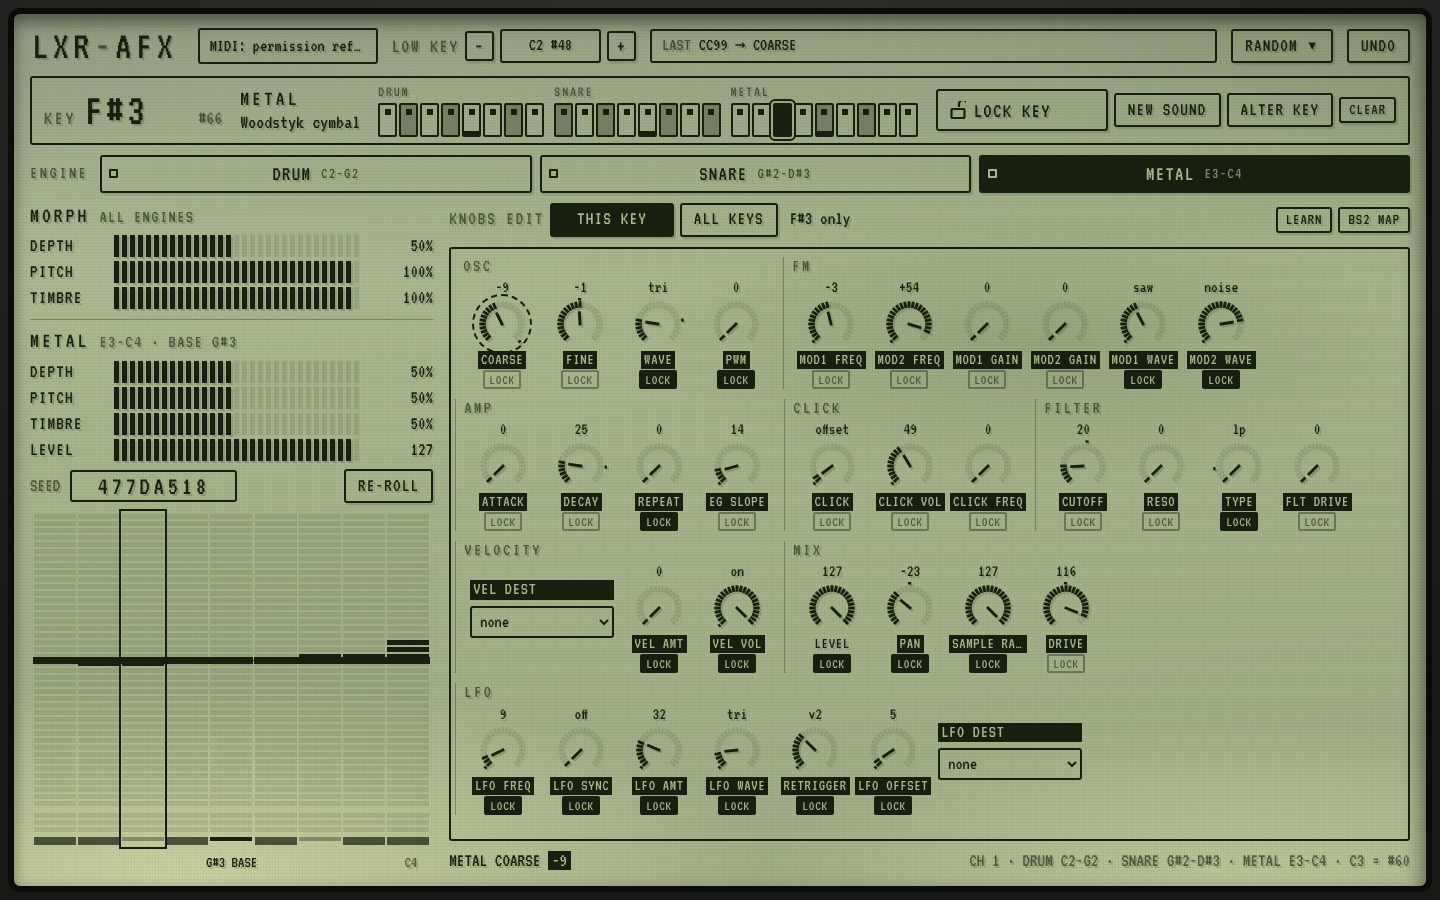
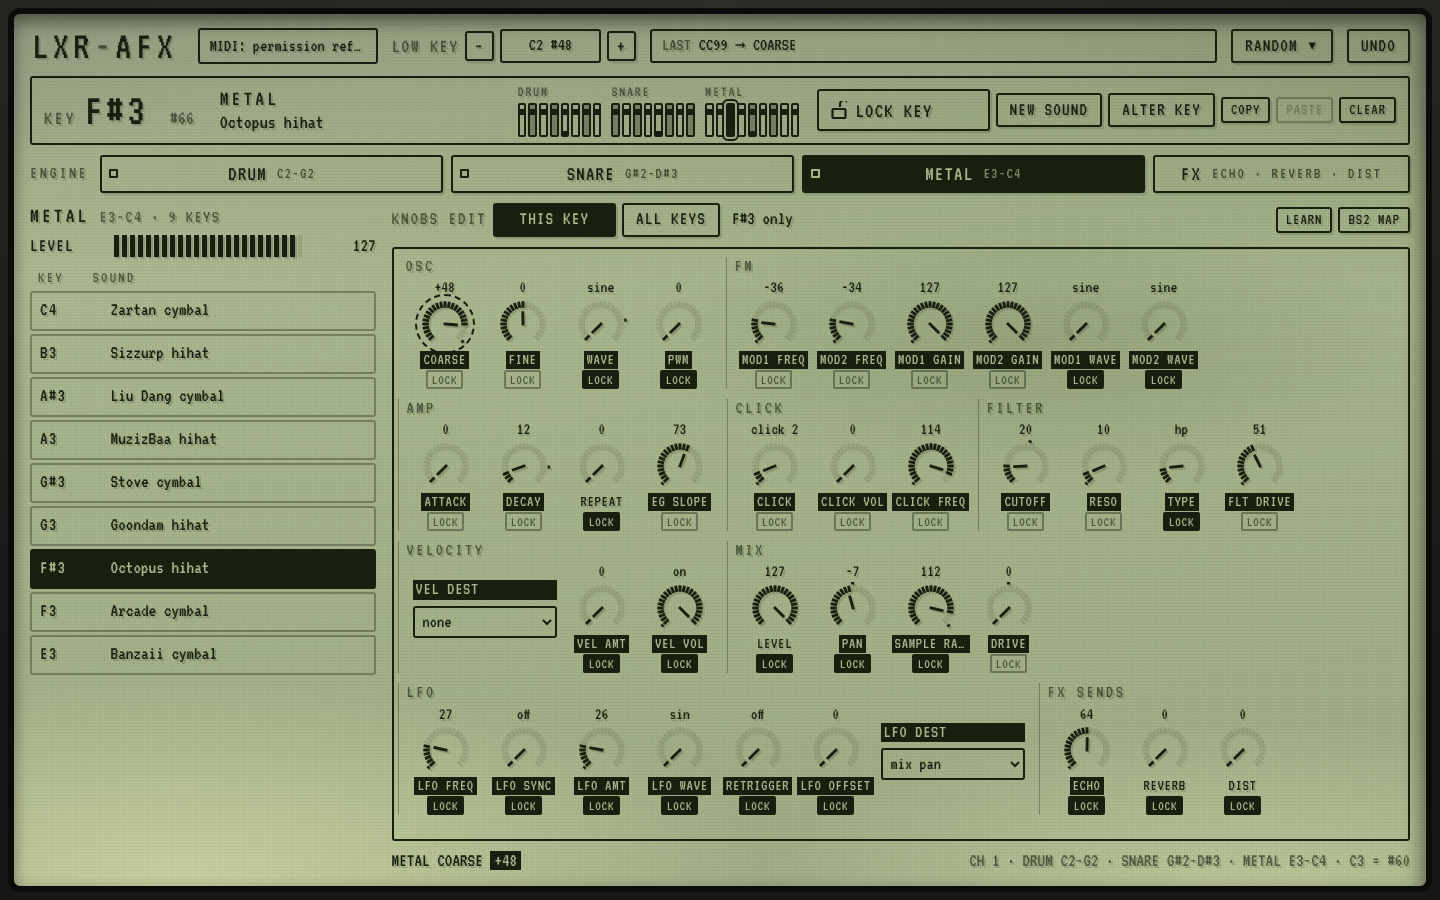
Drop the auto-morph: every key plays its own sound; side panel lists the zone's keys; BS2 knobs 18/5/19 drive the sends
Claude-Session: https://claude.ai/code/session_018ENZqU77miybkZNfffD9E3

diff --git a/app/main.js b/app/main.js
@@ -81,10 +81,9 @@ async function startAudio() {
 // made on one key never stays on for the next
 function keyPatch(sound, note) {
   const def = SOUNDS[sound], v = def.engineVoice, st = S.sounds[sound];
-  const amount = combinedAmount(pct(S.global), pct(st));
-  const m = morphKey({ schema: VOICE_SCHEMAS[v], base: S.values, note, seed: st.seed, amount, voice: v, zone: SOUNDS[sound].zone });
+  // no morph (dropped): a key with no sound of its own plays the engine's base sound
+  const m = { note: BASE_NOTE, semitones: 0, params: [] };
   const vals = new Map(voiceOwned(v).map((p) => [p, S.values[p]]));
-  for (const [p, x] of m.params) vals.set(p, x);
   const ed = S.keyEdits[sound][note];
   // a locked key plays the snapshot taken when it was locked, whole (only the sound's level still follows the mix)
   if (ed && ed._lock) {
@@ -127,7 +126,12 @@ function setValue(par, v, { quiet = false } = {}) {
 const editing = () => !S.editAll;
 function valueNow(par) { return editing() ? keyPatch(S.sel, editKey[S.sel]).vals.get(par) : S.values[par]; }
 function editValue(par, v) {
-  if (!editing()) { setValue(par, v); return; }
+  if (!editing()) { // ALL KEYS: the engine's base and every key of the zone that has its own sound (locked keys stay)
+    setValue(par, v);
+    const k = S.keyEdits[S.sel];
+    for (const n in k) if (!k[n]._lock) k[n][par] = v;
+    send({ type: 'param', par, value: v }); save(); drawKeymap(); return;
+  }
   const note = editKey[S.sel], k = S.keyEdits[S.sel];
   if (keyLocked(S.sel, note)) { lockedMsg(); drawFaders(); return; }
   (k[note] ||= {})[par] = v;
@@ -195,7 +199,7 @@ const CC_DEFAULT = {
   90: { t: 'par', label: ['attack'], name: 'amp attack' }, 91: { t: 'par', label: ['decay'], name: 'amp decay' },
   103: { t: 'par', label: ['pitch dec', 'mod1 freq'], name: 'mod env decay' }, 94: { t: 'par', label: ['fm amt', 'mod1 gain'], name: 'distortion' },
   27: { t: 'par', label: ['coarse'], name: 'osc 1 coarse' }, 26: { t: 'par', label: ['fine'], name: 'osc 1 fine' },
-  18: { t: 'global', k: 'depth', name: 'lfo 1 speed' }, 5: { t: 'global', k: 'pitch', name: 'portamento' }, 19: { t: 'global', k: 'timbre', name: 'lfo 2 speed' },
+  18: { t: 'par', label: ['echo'], name: 'lfo 1 speed' }, 5: { t: 'par', label: ['reverb'], name: 'portamento' }, 19: { t: 'par', label: ['dist'], name: 'lfo 2 speed' },
   20: { t: 'zlevel', s: 0, name: 'osc 1 level' }, 21: { t: 'zlevel', s: 1, name: 'osc 2 level' }, 22: { t: 'zlevel', s: 2, name: 'sub osc level' },
 };
 const ccMap = () => S.ccMap || CC_DEFAULT;
@@ -220,9 +224,8 @@ function onCC(cc, val) {
   const t = ccMap()[cc];
   if (!t) { showLastText(`CC${cc} ${val} · not mapped (LEARN maps it)`); return; }
   let text;
-  if (t.t === 'global') { S.global[t.k] = Math.round(val / 127 * 100); text = `${ccTargetName(t)} ${S.global[t.k]}%`; }
-  else if (t.t === 'sound') { S.sounds[S.sel][t.k] = Math.round(val / 127 * 100); text = `${SOUNDS[S.sel].name} ${ccTargetName(t)} ${S.sounds[S.sel][t.k]}%`; }
-  else if (t.t === 'randkey') { // a button: acts once as it goes past half way up
+  if (t.t === 'global' || t.t === 'sound') { showLastText(`CC${cc} · was the morph (gone): BS2 MAP or LEARN maps it`); return; }
+  if (t.t === 'randkey') { // a button: acts once as it goes past half way up
     const up = val >= 64, was = ccHeld[cc]; ccHeld[cc] = up;
     if (up && !was) randKey(); return;
   }
@@ -333,12 +336,6 @@ function hbar(box, label, o) {
 
 // ---- the morph bars ----
 const P = (v) => v + '%';
-const globalDraws = ['depth', 'pitch', 'timbre'].map((k) => hbar($('global-bars'), k.toUpperCase(), {
-  min: 0, max: 100, get: () => S.global[k], set: (v) => { S.global[k] = v; save(); drawKeymap(); }, show: P, dflt: 100, learn: { t: 'global', k } }));
-const soundDraws = ['depth', 'pitch', 'timbre'].map((k) => hbar($('sound-bars'), k.toUpperCase(), {
-  min: 0, max: 100, get: () => S.sounds[S.sel][k], set: (v) => { S.sounds[S.sel][k] = v; save(); drawKeymap(); }, show: P, dflt: 50, learn: { t: 'sound', k } }));
-$('reroll').addEventListener('click', () => reroll());
-function reroll() { S.sounds[S.sel].seed = newSeed(); lastMorph[S.sel] = null; save(); drawSide(); drawFaders(); detail(`${SOUNDS[S.sel].name}: new seed <em>${hex(S.sounds[S.sel].seed)}</em>`); }
 
 // ---- level and the randomiser's amount ----
 const levelPar = () => PAR['VOL' + (SOUNDS[S.sel].engineVoice + 1)];
@@ -350,58 +347,24 @@ $('wild').checked = S.rand.wild;
 $('wild').addEventListener('change', () => { S.rand.wild = $('wild').checked; save(); });
 
 // ---------------------------------------------------------------------------------------------------------------
-// the key map: each key's pitch offset (a bar up or down from the middle line) and timbre amount (the dots under it)
+// the zone's keys, one row each: its note, the sound it plays, and whether it's locked or edited. A click picks the key
+// and plays it (drawKeymap keeps its old name: everything that changes a key calls it)
 // ---------------------------------------------------------------------------------------------------------------
 function drawKeymap() {
-  const cv = $('keymap'), dpr = window.devicePixelRatio || 1;
-  const cw0 = cv.clientWidth, ch0 = cv.clientHeight;
-  if (!cw0 || !ch0) return;
-  if (cv.width !== Math.round(cw0 * dpr) || cv.height !== Math.round(ch0 * dpr)) { cv.width = Math.round(cw0 * dpr); cv.height = Math.round(ch0 * dpr); }
-  const g = cv.getContext('2d'); g.setTransform(dpr, 0, 0, dpr, 0, 0);
-  g.clearRect(0, 0, cw0, ch0); g.translate(3, 0); // room for the edit key's box at either end
-  const W = cw0 - 6, H = ch0, ink = '#17200e', ghost = 'rgba(23,32,14,.11)';
-  g.clearRect(0, 0, W, H);
-  const zone = SOUNDS[S.sel].zone, n = zone.hi - zone.lo + 1, cw = W / n;
-  // rows: pitch (up and down from the middle line), then timbre, then the keyboard strip
-  const SEG = 5, STEP = 7, keysH = 8, timbreH = 3 * STEP, top = 4;
-  const half = Math.floor((H - top - keysH - timbreH - 12) / 2 / STEP) * STEP, mid = top + half;
-  const st = S.sounds[S.sel], amount = combinedAmount(pct(S.global), pct(st)), last = lastMorph[S.sel];
-  const segsMax = half / STEP;
-  for (let k = 0; k < n; k++) {
-    const note = zone.lo + k, x = Math.round(k * cw) + 1, w = Math.max(2, Math.round(cw) - 2);
-    g.fillStyle = ghost;
-    for (let s = 0; s < segsMax; s++) { g.fillRect(x, mid - STEP - s * STEP + 1, w, SEG); g.fillRect(x, mid + 1 + s * STEP, w, SEG); }
-    // pitch: a segment per twelfth of the full 12 semitones' height, from the middle line
-    const lockEd = S.keyEdits[S.sel][note]?._lock ? S.keyEdits[S.sel][note] : null;
-    const semis = lockEd ? lockEd._st || 0 : pitchOffset(note, st.seed, amount.pitch, zone), segs = Math.round(Math.abs(semis) / 12 * segsMax);
-    g.fillStyle = ink;
-    for (let s = 0; s < segs; s++) g.fillRect(x, semis > 0 ? mid - STEP - s * STEP + 1 : mid + 1 + s * STEP, w, SEG);
-    // timbre: up to three segments
-    const ty = mid + half + 6, t = Math.round(amount.timbre * keyDistance(note, zone).dist * 3);
-    for (let s = 0; s < 3; s++) { g.fillStyle = s < t ? ink : ghost; g.fillRect(x, ty + (2 - s) * STEP, w, SEG); }
-    // the keyboard strip: white keys full, black keys short; C3 solid
-    const ky = ty + timbreH + 3, black = [1, 3, 6, 8, 10].includes(note % 12);
-    g.fillStyle = note === zone.base ? ink : black ? 'rgba(23,32,14,.35)' : 'rgba(23,32,14,.7)';
-    g.fillRect(x, ky, w, black ? keysH / 2 : keysH);
-    if (editKey[S.sel] === note) { g.strokeStyle = ink; g.lineWidth = 2; g.strokeRect(x - 2, top - 3, w + 4, ky + keysH - top + 6); }
-    // a key with its own edits: a solid block on the middle line
-    if (lockEd) { // a padlock on the middle line, and a frame round the column
-      const cx = x + w / 2, bw = Math.min(w + 2, 16);
-      g.fillStyle = ink; g.fillRect(cx - bw / 2, mid - 3, bw, 10);
-      g.strokeStyle = ink; g.lineWidth = 2.5; g.beginPath(); g.arc(cx, mid - 3, bw / 2 - 3, Math.PI, 0); g.stroke();
-      g.setLineDash([3, 3]); g.lineWidth = 1.5; g.strokeRect(x - 1, top - 1, w + 2, ky + keysH - top + 2); g.setLineDash([]);
-    } else if (S.keyEdits[S.sel][note]) { g.fillStyle = ink; g.fillRect(x - 1, mid - 3, w + 2, 7); }
+  const z = SOUNDS[S.sel].zone, box = $('keylist'); box.innerHTML = '';
+  for (let note = z.hi; note >= z.lo; note--) {
+    const ed = S.keyEdits[S.sel][note], n = editCount(ed);
+    const r = document.createElement('button'); r.type = 'button'; r.className = 'kl';
+    if (note === editKey[S.sel]) r.classList.add('sel');
+    if (ed?._lock) r.classList.add('locked');
+    const what = ed?._kit && ed._kit !== 'kept' ? ed._kit : ed ? `own sound · ${n} set` : `${SOUNDS[S.sel].name.toLowerCase()} base`;
+    r.innerHTML = `<b></b><span></span><i>${ed?._lock ? 'LOCKED' : ''}</i>`;
+    r.querySelector('b').textContent = noteName(note); r.querySelector('span').textContent = what;
+    r.addEventListener('click', () => { startAudio().then(() => play(S.sel, note, 100)); });
+    box.append(r);
   }
-  g.fillStyle = 'rgba(23,32,14,.55)'; g.fillRect(0, mid, W, 1);
 }
 window.addEventListener('resize', drawKeymap);
-// a click on the key map picks the key to edit (it doesn't play: notes come from MIDI)
-$('keymap').addEventListener('click', (e) => {
-  const zone = SOUNDS[S.sel].zone, r = $('keymap').getBoundingClientRect(), n = zone.hi - zone.lo + 1;
-  editKey[S.sel] = zone.lo + clamp(Math.floor((e.clientX - r.left - 3) / (r.width - 6) * n), 0, n - 1);
-  if (S.editAll) setEditAll(false);
-  drawKeymap(); drawFaders(); drawEditKey();
-});
 
 // ---------------------------------------------------------------------------------------------------------------
 // the seven sounds
@@ -425,23 +388,11 @@ function select(i, view) {
   soundBtns.forEach((b, k) => b.setAttribute('aria-selected', k === i));
   buildFaders(); drawSide(); drawEditKey();
 }
-function drawKeyLabels() {
-  // a label under each C in the zone, and under the base
-  const z = SOUNDS[S.sel].zone, n = z.hi - z.lo + 1, box = $('keylabels'); box.innerHTML = '';
-  for (let note = z.lo; note <= z.hi; note++) {
-    if (note % 12 && note !== z.base) continue;
-    const sp = document.createElement('span'); sp.textContent = noteName(note) + (note === z.base ? ' BASE' : '');
-    sp.style.left = ((note - z.lo + 0.5) / n * 100) + '%'; if (note === z.base) sp.className = 'base';
-    box.append(sp);
-  }
-}
 function drawSide() {
   const s = SOUNDS[S.sel];
-  $('side-name').textContent = s.name; $('side-ch').textContent = `${noteName(s.zone.lo)}-${noteName(s.zone.hi)} · BASE ${noteName(s.zone.base)}`;
+  $('side-name').textContent = s.name; $('side-ch').textContent = `${noteName(s.zone.lo)}-${noteName(s.zone.hi)} · ${s.zone.hi - s.zone.lo + 1} KEYS`;
   $('rand-name').textContent = s.name;
-  drawKeyLabels();
-  $('seed').textContent = hex(S.sounds[S.sel].seed);
-  soundDraws.forEach((d) => d()); globalDraws.forEach((d) => d()); randDraws.forEach((d) => d());
+  randDraws.forEach((d) => d());
   drawLocks(); drawKeymap();
 }
 
@@ -605,13 +556,13 @@ function drawEditKey() {
   $('edit-key').setAttribute('aria-pressed', !S.editAll); $('edit-all').setAttribute('aria-pressed', S.editAll);
   const locked = keyLocked(S.sel, note), nl = Object.values(edits).filter((e) => e._lock).length;
   $('edit-key').textContent = 'THIS KEY';
-  $('edit-info').textContent = S.view === 'fx' ? 'the effects: every key feeds them at its sends' : locked ? `${noteName(note)} is locked` : S.editAll ? 'the base: every key follows' : `${noteName(note)} only`;
+  $('edit-info').textContent = S.view === 'fx' ? 'the effects: every key feeds them at its sends' : locked ? `${noteName(note)} is locked` : S.editAll ? 'every key of the zone (locked keys stay)' : `${noteName(note)} only`;
   $('clear-key').disabled = !here || locked; $('clear-keys').disabled = n === nl;
   $('lock-key').setAttribute('aria-pressed', locked); $('lock-key').querySelector('span').textContent = locked ? 'LOCKED' : 'LOCK KEY';
   $('rand-key').disabled = locked; $('alter-key').disabled = locked; $('paste-key').disabled = locked || !clip;
   // the key header: the key, its engine, and what it plays
   const what = locked ? `locked${from && from !== 'kept' ? ' · ' + from : ''}` : from ? (from === 'kept' ? 'its own sound' : from) :
-    note === SOUNDS[S.sel].zone.base ? 'the base sound' : here ? `morph + ${here} edit${here === 1 ? '' : 's'}` : 'a morph of the base';
+    here ? `base + ${here} edit${here === 1 ? '' : 's'}` : `the ${SOUNDS[S.sel].name.toLowerCase()} base sound`;
   $('kh-note').textContent = noteName(note); $('kh-num').textContent = '#' + note;
   $('kh-engine').textContent = SOUNDS[S.sel].name; $('kh-info').textContent = what;
   $('screen').classList.toggle('keylocked', locked);
@@ -619,7 +570,7 @@ function drawEditKey() {
 }
 $('edit-key').addEventListener('click', () => setEditAll(false));
 $('edit-all').addEventListener('click', () => setEditAll(true));
-$('clear-key').addEventListener('click', () => { clearKey(S.sel, editKey[S.sel]); drawFaders(); drawKeymap(); drawEditKey(); detail(`${SOUNDS[S.sel].name} ${noteName(editKey[S.sel])}: back to its morph`); });
+$('clear-key').addEventListener('click', () => { clearKey(S.sel, editKey[S.sel]); drawFaders(); drawKeymap(); drawEditKey(); detail(`${SOUNDS[S.sel].name} ${noteName(editKey[S.sel])}: back to the engine's base sound`); });
 $('lock-key').addEventListener('click', () => lockKey(S.sel, editKey[S.sel]));
 $('alter-key').addEventListener('click', () => alterKey());
 
@@ -683,7 +634,7 @@ function openMenu(open) { $('menu-panel').hidden = !open; $('menu-btn').setAttri
 $('menu-btn').addEventListener('click', () => openMenu($('menu-panel').hidden));
 document.addEventListener('pointerdown', (e) => { if (!$('menu-panel').hidden && !e.target.closest('#menu')) openMenu(false); });
 document.addEventListener('keydown', (e) => { if (e.key === 'Escape') openMenu(false); });
-$('clear-keys').addEventListener('click', () => { const e = S.keyEdits[S.sel]; for (const k in e) if (!e[k]._lock) delete e[k]; save(); drawFaders(); drawKeymap(); drawEditKey(); detail(`${SOUNDS[S.sel].name}: every key back to its morph`); });
+$('clear-keys').addEventListener('click', () => randChange(() => scatter(S.sel), `${SOUNDS[S.sel].name}: every key a fresh kit sound (locked keys stay)`));
 
 // ---------------------------------------------------------------------------------------------------------------
 // randomisers (the logic of Elixir Desktop's, plus locks): every press starts from the voice's home (what it was before
@@ -859,7 +810,6 @@ document.addEventListener('keydown', (e) => {
   }
   if (e.target.closest('select') || e.metaKey || e.ctrlKey || e.altKey) return;
   if (e.key >= '1' && e.key <= String(SOUNDS.length)) select(Number(e.key) - 1);
-  else if (e.key === 'r' || e.key === 'R') reroll();
   else if (e.key === 'k' || e.key === 'K') randKey();
   else if (e.key === 'a' || e.key === 'A') alterKey();
   else if (e.key === 'f' || e.key === 'F') fxBtn.click();
@@ -874,6 +824,8 @@ $('start-btn').addEventListener('click', async () => {
   await startAudio();
   startMidi();
 });
+// with no morph, keys with nothing of their own all play the base: a zone with no key sounds starts scattered
+SOUNDS.forEach((_, i) => { if (!Object.keys(S.keyEdits[i]).length) scatter(i); });
 buildStrip();
 select(clamp(S.sel, 0, SOUNDS.length - 1));
 // the layout: three zones up from the lowest key, moved by octaves with LOW KEY (the keys' edits move with them)

diff --git a/index.html b/index.html
@@ -30,7 +30,7 @@
         <div class="randrow">
           <button class="btn" id="alter" title="Nudge this engine's sound a little (10%), and each key with its own sound">ALTER</button>
           <button class="btn" id="scatter" title="Every key of this zone: a different sound of its type from the built-in kits (locked keys stay)">SCATTER</button>
-          <button class="btn" id="clear-keys" title="Every key of this zone back to its plain morph (locked keys stay)">CLEAR KEYS</button>
+          <button class="btn" id="clear-keys" title="Every key of this zone a fresh kit sound (locked keys stay)">RESET KEYS</button>
         </div>
         <h3>ALL THREE ENGINES</h3>
         <div class="randrow">
@@ -60,7 +60,7 @@
       <button class="btn" id="alter-key" title="Nudge this key's sound a little (A; UNDO takes it back)">ALTER KEY</button>
       <button class="btn sm" id="copy-key" title="Copy this key's sound (Cmd+C / Ctrl+C)">COPY</button>
       <button class="btn sm" id="paste-key" disabled title="Paste the copied sound onto this key (Cmd+V / Ctrl+V; UNDO takes it back)">PASTE</button>
-      <button class="btn sm" id="clear-key" title="This key back to its plain morph">CLEAR</button>
+      <button class="btn sm" id="clear-key" title="This key back to the engine's base sound">CLEAR</button>
     </div>
   </section>
 
@@ -68,21 +68,11 @@
 
   <div class="body">
     <aside class="side">
-      <section class="card">
-        <h2>MORPH <span class="dim">ALL ENGINES</span></h2>
-        <div class="bars" id="global-bars"></div>
-      </section>
       <section class="card grow">
         <h2><span id="side-name">DRUM</span> <span class="dim" id="side-ch">CH 1</span></h2>
         <div class="bars" id="sound-bars"></div>
-        <div class="seedrow">
-          <span class="dim">SEED</span><b class="seed" id="seed">0000</b>
-          <button class="btn" id="reroll" title="A new seed: every key gets a new variant (R)">RE-ROLL</button>
-        </div>
-        <div class="keymap">
-          <canvas id="keymap" aria-label="Key map: each key's pitch and timbre morph"></canvas>
-          <div class="keylabels" id="keylabels"></div>
-        </div>
+        <h3 class="klhead"><span>KEY</span><span>SOUND</span></h3>
+        <div class="keylist" id="keylist" aria-label="The zone's keys: click one to pick it and hear it"></div>
       </section>
     </aside>
 
@@ -90,14 +80,14 @@
       <div class="editbar">
         <span class="dim">KNOBS EDIT</span>
         <button class="btn" id="edit-key" title="Edits change only this key">THIS KEY</button>
-        <button class="btn" id="edit-all" title="Edits change the engine's base sound: every key's morph follows">ALL KEYS</button>
+        <button class="btn" id="edit-all" title="Edits go to every key of this zone at once (locked keys stay)">ALL KEYS</button>
         <span id="edit-info" class="info"></span>
         <button class="btn sm" id="learn" title="Map a knob: press, click a control on screen, turn the knob">LEARN</button>
         <button class="btn sm" id="cc-reset" title="Knobs back to the Bass Station 2 map">BS2 MAP</button>
       </div>
       <div class="faders" id="faders"></div>
       <div class="lockveil" id="lockveil"><b>KEY LOCKED</b><span>nothing changes this key · LOCK KEY (L) unlocks it</span></div>
-      <footer class="status"><span id="detail">Play a key, then edit: the change stays on that key. ALL KEYS edits the base, and every key follows.</span>
+      <footer class="status"><span id="detail">Play a key, then edit: the change stays on that key. ALL KEYS sets a control on every key of the zone.</span>
         <span class="dim" id="zones"></span></footer>
     </section>
   </div>

diff --git a/css/lcd.css b/css/lcd.css
@@ -276,3 +276,17 @@ body.learning [data-learn] { outline: 2px dashed var(--ink); outline-offset: 2px
 .keyname #kh-num { width: 4ch; }
 .keyinfo { width: 14em; max-width: none; }
 @media (max-width: 1340px) { .keyinfo { width: 11em; } }
+
+/* ---- the side: the engine's level and its keys, one row each ---- */
+.body { grid-template-columns: clamp(300px, 24vw, 360px) 1fr; }
+.klhead { display: grid; grid-template-columns: 3.4em 1fr; margin: 12px 0 4px; font-size: 16px; font-weight: 400; letter-spacing: .14em; color: var(--muted); padding: 0 8px; }
+.keylist { flex: 1; min-height: 0; display: flex; flex-direction: column; gap: 3px; overflow: hidden; }
+.kl { display: grid; grid-template-columns: 3.4em 1fr auto; align-items: center; gap: 6px; flex: 1 1 0; min-height: 0; max-height: 40px; padding: 0 8px;
+  background: transparent; border: 2px solid rgba(23, 32, 14, .35); border-radius: 3px; text-align: left; cursor: pointer; font-size: 19px; text-shadow: var(--shadow); }
+.kl b { font-weight: 400; letter-spacing: .06em; }
+.kl span { white-space: nowrap; overflow: hidden; text-overflow: ellipsis; }
+.kl i { font-style: normal; font-size: 15px; letter-spacing: .1em; }
+.kl:hover { background: var(--tint); }
+.kl.locked { border-style: dashed; border-color: var(--ink); }
+.kl.sel { background: var(--ink); color: var(--panel); border-color: var(--ink); text-shadow: none; }
+@media (max-width: 1340px) { .kl { font-size: 17px; } }

diff --git a/README.md b/README.md
@@ -9,10 +9,9 @@ An AFX-mode drum instrument in the browser: three sounds on one MIDI channel, ev
   48), one zone for each of the engine's three voice types, all three able to sound at once: **drum** on the lowest 8
   keys (48-55), **snare** on the next 8 (56-63), **metal** on the top 9 (64-72). Each zone's base key is its middle key
   (52, 60, 68). LOW KEY moves the whole layout by octaves; the sizes are `ZONE_SIZES` in `sound/schema.js`. Velocity is used.
-- **Key morph**: a zone's base key plays its sound as you made it. Every other key plays a variant, changing pitch and
-  timbre, more the further it is from the base (each end of a zone is the full amount). Each key's variant is fixed by
-  the sound's seed; **re-roll** for a new set. Depth, pitch and timbre sliders for all sounds and per sound; depth 0 plays
-  the base sound on every key.
+- **Every key has its own sound.** A zone starts with a different kit sound of its type on every key (RESET KEYS in the
+  RANDOM menu deals a fresh set); a key with nothing of its own plays the engine's base. (The auto-morph of earlier
+  versions is gone: sound/morph.js is no longer used.)
 - **Layout, top down: the key, then its engine, then its synth settings.** The key header shows the key you last played
   (or clicked on its strip of all 25 keys), its engine and what it plays, with **LOCK KEY** (L), **NEW SOUND** (K),
   **ALTER KEY** (A), **COPY** / **PASTE** (Cmd+C / Cmd+V, Ctrl on a PC; onto another engine it maps by control name) and
@@ -28,7 +27,7 @@ An AFX-mode drum instrument in the browser: three sounds on one MIDI channel, ev
 - **Knobs** (MIDI CC on channel 1), mapped for a Bass Station 2: they act on the last key played, like the editor (which
   follows the sound you play). Filter freq → cutoff, resonance → reso, overdrive → drive, amp attack/decay → attack/decay,
   mod env decay → pitch decay, mod env depth → pitch amount, distortion → FM amount, osc 1 coarse/fine → coarse/fine,
-  LFO 1 speed / portamento / LFO 2 speed → morph depth / pitch / timbre (all sounds), osc 1 / osc 2 / sub levels → the
+  LFO 1 speed / portamento / LFO 2 speed → the key's echo / reverb / dist sends, osc 1 / osc 2 / sub levels → the
   drum / snare / metal levels. **LEARN** maps any knob to any control: press it, click the control, turn the knob.
 - **Randomisers**: **SCATTER** deals a different real kit sound of the zone's type onto every key. **NEW SOUND** (or K, or a
   learned button) swaps just the key you last played for another kit sound, leaving the rest of the set alone.
